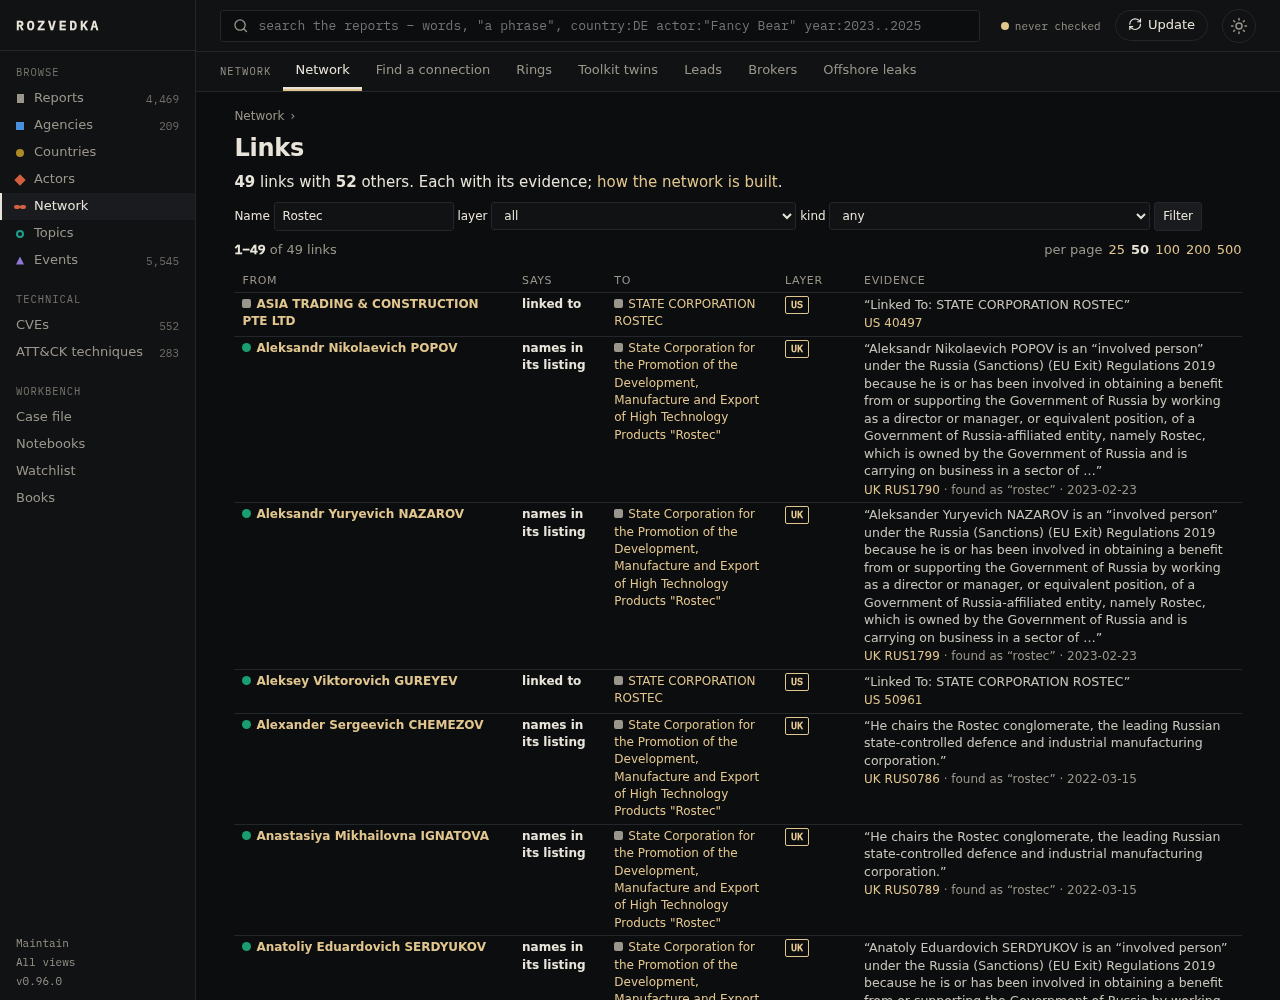
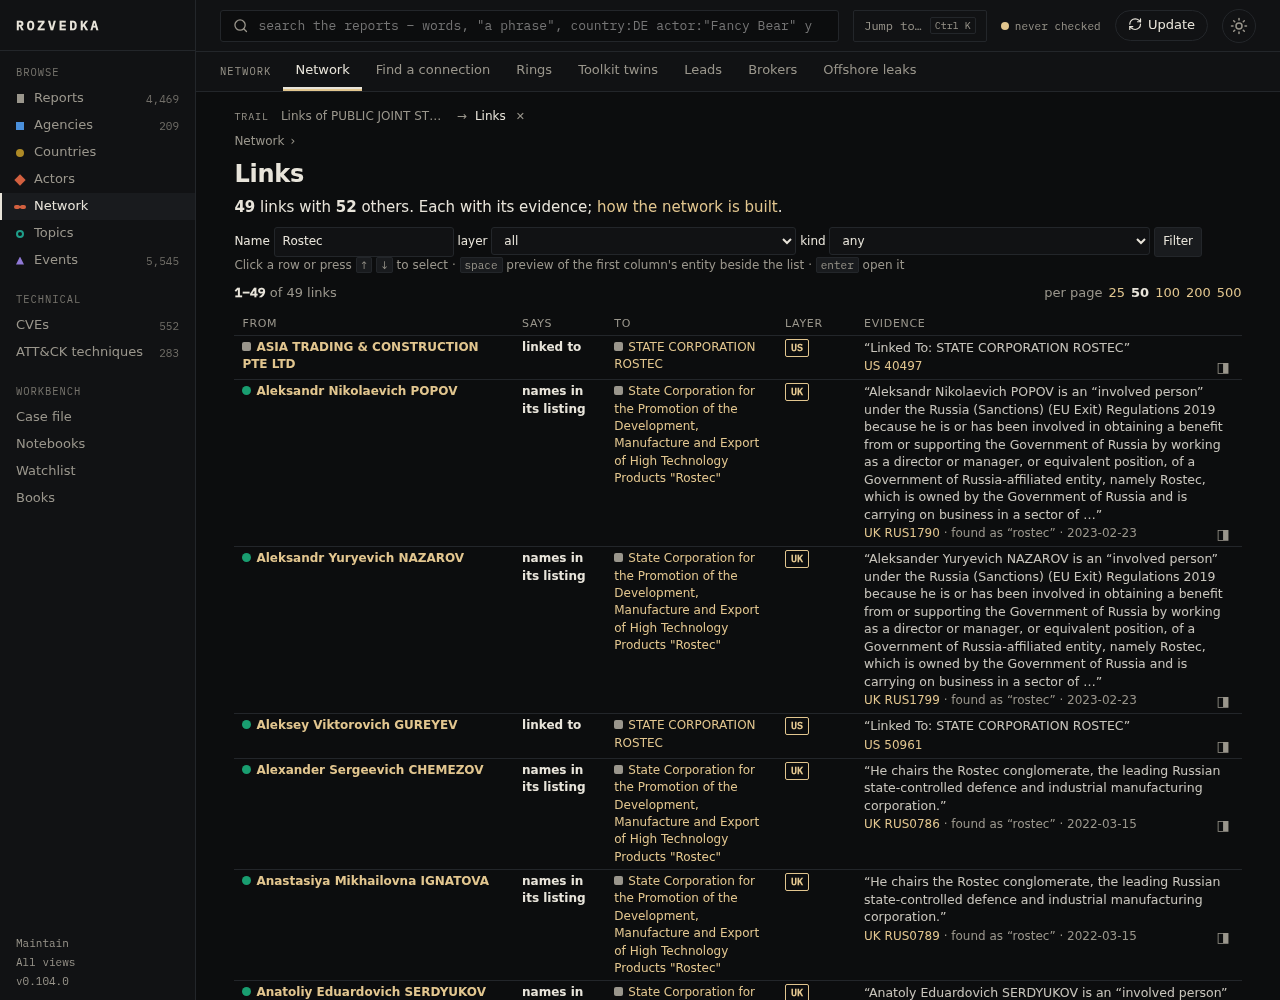
feat: preview pane on the network's Links list (0.104.0)
A selected link shows the first column's entity beside the list: its links in
numbers, by source and by relation. An actor's entity gets the actor's preview.
The selected row is highlighted across header cells too.

diff --git a/rozvedka/templates/entity_preview.html b/rozvedka/templates/entity_preview.html
@@ -1,0 +1,21 @@
+{# one network entity in the Links list's preview pane (static/preview.js) – a piece of a page, not a page #}
+{% set d = e.data %}
+<p class="pv-kicker"><span>Preview · entity</span><button type="button" class="pv-close" title="Close the preview (Esc)">esc ✕</button></p>
+<h2 class="pv-title"><a href="/entity/{{ e.id|urlencode }}">{{ e.label }}</a></h2>
+<p class="pv-by"><span class="ent"><i class="kdot kind-{{ e.kind }}"></i>{{ e.kind_name }}</span>
+  <span class="muted">· {% if d.members %}on {{ d.members|map(attribute='list')|unique|join(' · ') }}{% elif d.list %}on the {{ lists[d.list].name if d.list in lists else d.list }}{% elif e.origin == 'icij' %}ICIJ Offshore Leaks – leaked records, not official{% elif e.origin == 'gleif' %}GLEIF register{% elif e.origin == 'attack' %}MITRE ATT&amp;CK{% elif e.origin == 'ids' %}a detail shared by list entries{% else %}not an actor the reports are searched for{% endif %}</span></p>
+<p class="rp-actions"><a class="rp-btn rp-primary" href="/entity/{{ e.id|urlencode }}">Open entity</a>
+  <a class="rp-btn" href="{{ p.link }}">Links</a>
+  <a class="rp-btn" href="/graph/rings?e={{ e.id|urlencode }}">Rings</a>
+  <a class="rp-btn" href="/graph/path?a={{ e.id|urlencode }}">Find a connection</a></p>
+<table class="kv small pv-facts">
+  <tr><th>Links</th><td><a href="{{ p.link }}">{{ p.total|num }}</a> with {{ p.others|num }} other{{ 's' if p.others != 1 }}</td></tr>
+  {% for g, name in (('official', 'Official'), ('reference', 'Reference'), ('leaks', 'Leaked'), ('reports', 'Reports')) %}{% set ls = p.layers|selectattr('group', 'equalto', g)|list %}{% if ls %}
+  <tr><th>{{ name }}</th><td>{% for l in ls %}<a href="{{ l.link }}" title="{{ l.name }}">{{ l.n|num }} {{ l.name.split(' (')[0] }}</a>{{ ' · ' if not loop.last }}{% endfor %}</td></tr>{% endif %}{% endfor %}
+</table>
+{% for l in groups %}<h3 class="pv-h">{{ l.name.split(' (')[0] }} <span class="muted">· {% if l.group == 'official' %}official{% elif l.group == 'leaks' %}leaked records, not official{% elif l.layer in ('wikipedia', 'wikitext') %}not official{% else %}reference{% endif %}</span></h3>
+  <ul class="pv-list pv-rels">{% for r in l.rels %}<li><span class="pv-says">{{ r.says }}</span>
+    <span class="pv-who">{% for x in r.rows[:per_rel] %}<a href="{{ x.other_href }}">{{ x.other_label|truncate(30) }}</a>{{ ', ' if not loop.last }}{% endfor %}{% if r.n > per_rel %} <span class="muted">+{{ (r.n - per_rel)|num }}</span>{% endif %}</span>
+    <a class="pv-n" href="{{ l.link }}" title="All {{ l.name }} links of {{ e.label }}">{{ r.n|num }}</a></li>{% endfor %}</ul>
+{% endfor %}
+<p class="pv-keys">↑ ↓ or j k move · space preview · enter open · esc close</p>

diff --git a/rozvedka/templates/graph_ties.html b/rozvedka/templates/graph_ties.html
@@ -15,14 +15,18 @@
   kind <select name="kind"><option value="">any</option>{% for k, n in kinds.items() %}<option value="{{ k }}" {{ 'selected' if f.kind == k }}>{{ n }}</option>{% endfor %}</select>
   <button>Filter</button>{% if f.entity %} <a href="/graph/ties">all entities</a>{% endif %}
 </form>
+{% if rows %}<p class="pv-hint muted small">Click a row or press <kbd>↑</kbd> <kbd>↓</kbd> to select · <kbd>space</kbd> preview of the first column's entity beside the list · <kbd>enter</kbd> open it</p>{% endif %}
 {{ pager(pg, "links") }}
 <table class="rp-topics small ties">
   <thead><tr><th>{{ 'Linked' if focus else 'From' }}</th><th>Says</th><th>{{ '' if focus else 'To' }}</th><th>Layer</th><th>Evidence</th></tr></thead>
-  {% for r in rows %}<tr>
+  <tbody>{% for r in rows %}{% set first = r.other if focus else r.a %}
+  <tr data-id="{{ r.id }}" data-pv="/graph/preview?e={{ first|urlencode }}" data-open="{{ r.other_href if focus else r.a_href }}">
     {% if focus %}<th>{{ ent(r.other_label, r.other_kind, r.other_href) }}</th><td>{{ focus.label }} <b>{{ r.says }}</b></td><td></td>
     {% else %}<th>{{ ent(r.a_label, r.a_kind, r.a_href) }}</th><td><b>{{ r.rel }}</b></td><td>{{ ent(r.b_label, r.b_kind, r.b_href) }}</td>{% endif %}
-    <td>{{ lay(r.layer, r.layer_group, r.layer_name) }}</td><td>{{ evidence(r) }}</td></tr>
-  {% else %}<tr><td class="muted" colspan="5">No link matches this filter.</td></tr>{% endfor %}
+    <td>{{ lay(r.layer, r.layer_group, r.layer_name) }}</td><td>{{ evidence(r) }} <button type="button" class="pv-btn a-pv" title="Preview beside the list (space)" aria-label="Preview" aria-pressed="false">◨</button></td></tr>
+  {% else %}<tr><td class="muted" colspan="5">No link matches this filter.</td></tr>{% endfor %}</tbody>
 </table>
 {{ pager(pg, "links") }}
+<aside class="pv" id="pv" data-what="entity" aria-label="Preview of the selected entity" aria-live="polite" hidden></aside>
+<script src="{{ asset('preview.js') }}" defer></script>
 {% endblock %}

diff --git a/rozvedka/static/style.css b/rozvedka/static/style.css
@@ -1703,8 +1703,8 @@ span.conn-n { color: var(--muted); }
 
 /* the Reports list's preview pane (static/preview.js): beside the list on a wide screen, over it on a narrow one */
 .docs tbody tr[data-doc] { cursor: default; }
-tbody tr[data-pv].sel > td { background: var(--chip); }
-tbody tr[data-pv].sel > td:first-child { box-shadow: inset 2px 0 0 var(--accent); }
+tbody tr[data-pv].sel > td, tbody tr[data-pv].sel > th { background: var(--chip); }
+tbody tr[data-pv].sel > :first-child { box-shadow: inset 2px 0 0 var(--accent); }
 .pv-btn { border: 0; background: none; color: var(--muted); padding: 2px 4px; font-size: 14px; line-height: 1; cursor: pointer; }
 .pv-btn:hover, .pv-btn[aria-pressed="true"] { color: var(--accent); }
 .pv-hint { margin: 0 0 6px; }
@@ -1735,6 +1735,9 @@ tbody tr[data-pv].sel > td:first-child { box-shadow: inset 2px 0 0 var(--accent)
 .pv-from { margin: 4px 0 0 12px; }
 .pv-chips .topic-chip b { font-weight: 500; margin-left: 4px; }
 .a-pv { float: right; }
+.pv-rels li { align-items: baseline; }
+.pv-says { flex: none; width: 34%; color: var(--muted); }
+.pv-who { min-width: 0; }
 @media (min-width: 1200px) { body.pv-open .actors th:nth-child(n+4), body.pv-open .actors td:nth-child(n+4) { display: none; } }
 .pv-keys { margin: 16px 0 0; padding-top: 10px; border-top: 1px solid var(--line); font: 11px var(--mono); color: var(--muted); }
 @media (min-width: 1200px) { /* beside the pane the list keeps year, publisher and title; the pane says the rest */

diff --git a/rozvedka/static/preview.js b/rozvedka/static/preview.js
@@ -1,4 +1,4 @@
-// Lists with a preview pane (Reports, Actors): a row can be selected (click, ↑ ↓ or j k) and previewed in a pane
+// Lists with a preview pane (Reports, Actors, Links): a row can be selected (click, ↑ ↓ or j k) and previewed in a pane
 // beside the list (space, or its button) without leaving the list; enter opens its page. A row says where its preview
 // (data-pv) and its page (data-open) are; a report's preview gets the list's own search, so it shows the passage
 // that made the report match.
@@ -19,7 +19,7 @@
     const put = (html) => { if (rows[sel] && rows[sel].dataset.pv === id) { pane.innerHTML = html; pane.scrollTop = 0; } };
     if (cache.has(id)) return put(cache.get(id));
     pane.innerHTML = kicker + '<p class="muted small">Loading…</p>';
-    fetch(`${id}?${qs}`).then((r) => r.ok ? r.text() : Promise.reject(r.status))
+    fetch(String(qs) ? id + (id.includes("?") ? "&" : "?") + qs : id).then((r) => r.ok ? r.text() : Promise.reject(r.status))
       .then((html) => { cache.set(id, html); put(html); })
       .catch(() => put(kicker + '<p class="muted small">The preview could not be loaded.</p>'));
   }

diff --git a/tests/test_ties.py b/tests/test_ties.py
@@ -218,3 +218,20 @@ def test_wanted_notices(library):
         assert "Wanted" in page and "fbi.gov/wanted/cyber/jd" in page and "allegation, not a conviction" in page
         assert "several people at once" in client.get("/entity/case:FBI:c1").text
         assert "officer of Hezbollah" in client.get("/graph/ties?layer=wanted").text
+
+
+def test_preview_pane_on_the_links_list(library):
+    from rozvedka.app import app
+    with TestClient(app) as client:
+        p = ties.profile("S0002")
+        t = client.get("/graph/preview?e=S0002").text
+        assert "<html" not in t and "Preview · entity" in t and "Mimikatz" in t and 'href="/entity/S0002"' in t   # a piece of a page
+        assert f'<a href="/graph/ties?entity=S0002">{p["total"]}</a> with {p["others"]} other' in t              # the number opens its list
+        assert "MITRE ATT&amp;CK" in t and 'class="pv-says"' in t
+        r = client.get("/graph/preview?e=Q2", follow_redirects=False)                # an actor gets the actor's preview
+        assert r.status_code == 307 and r.headers["location"] == "/actors/Q2/preview"
+        assert client.get("/graph/preview?e=NOPE").status_code == 404 and client.get("/graph/preview").status_code == 404
+        lst = client.get("/graph/ties?entity=Q2").text
+        assert 'id="pv" data-what="entity"' in lst and "preview.js" in lst and 'data-pv="/graph/preview?e=' in lst
+        assert lst.count("data-pv=") == lst.count('class="pv-btn a-pv"') == 5        # one per link
+        assert "data-pv=" not in client.get("/graph/ties?q=zzzzzz").text

diff --git a/rozvedka/routes/graph.py b/rozvedka/routes/graph.py
@@ -31,6 +31,23 @@ def ties_page(request: Request, entity: str = "", layer: str = "", group: str = 
                                                              "kinds": ties.KINDS})
 
 
+PREVIEW_PER_REL = 4      # linked names shown per relation in an entity's preview
+
+
+@router.get("/graph/preview")
+def entity_preview(request: Request, e: str = ""):
+    """The entity as the Links list shows it beside a selected row: its links in numbers and by relation. An entity
+    that is an actor of the reports gets the actor's preview."""
+    ent = ties.entity(e)
+    if not ent:
+        raise HTTPException(404, "no such entity in the network")
+    if ent["actor"]:
+        return RedirectResponse("/actors/" + quote(ent["actor"], safe="") + "/preview", status_code=307)
+    return tpl.TemplateResponse(request, "entity_preview.html", {"e": ent, "groups": ties.neighbours(e), "p": ties.profile(e),
+                                                                 "per_rel": PREVIEW_PER_REL,
+                                                                 "lists": {**sanctions.LISTS, **wanted.SOURCES}})
+
+
 @router.get("/entity/{id_:path}")
 def entity_page(request: Request, id_: str):
     e = ties.entity(id_)

diff --git a/tools/screenshots.py b/tools/screenshots.py
@@ -95,6 +95,7 @@ SHOTS = {
     "network": ("/network", 1100, [("sleep", 6)], None),
     "graph": ("/graph", 1250, [], None),                                # the network of stated links: layers, most linked
     "graph-actor": ("/actors/Q41053", 1100, [("sleep", 2)], "#network"),  # Hezbollah: what the sanctions lists tie to it
+    "links-preview": ("/graph/ties?entity=EU:EU.11824.28&layer=uk", 760, [("eval", "['j', ' '].forEach((k) => document.dispatchEvent(new KeyboardEvent('keydown', {key: k}))); scrollTo(0, 0); 1"), ("sleep", 5)], None),
     "graph-ties": ("/graph/ties?q=Rostec", 1000, [], None),             # links found by name, each with its evidence
     "graph-wikitext": ("/graph/ties?entity=Q4119382&layer=wikitext", 1100, [], None),   # links from Wikipedia article sentences
     "entity-wanted": ("/entity/US:26192", 1300, [], None),            # a GRU officer: OFAC entry and FBI notice merged, the links it states

diff --git a/rozvedka/__init__.py b/rozvedka/__init__.py
@@ -5,7 +5,7 @@ from pathlib import Path
 
 # Single source of the release version (Semantic Versioning, https://semver.org).
 # Do not edit by hand: run `python3 tools/bump_version.py patch|minor|major` (see CHANGELOG.md, "Versioning").
-__version__ = "0.103.0"
+__version__ = "0.104.0"
 
 
 @lru_cache(maxsize=1)

diff --git a/docs/ROADMAP.md b/docs/ROADMAP.md
@@ -270,7 +270,7 @@ Drafts of three screens are in `docs/design/` (an actor, the Reports list, a cou
 | I1 | Menu by the things the library holds (reports, agencies, countries, actors, network, topics, events), new monochrome look in both themes | **done 0.95.0** |
 | I2 | One page shape for every thing: identity, six key numbers, then its views as tabs (overview, reports, relations, timeline, map) | **actors and reports done 0.96.0** (`static/tabs.js`); **countries and topics done 0.97.0**; **agencies done 0.98.0** (`/agency/<id>`; the credibility profile of a think tank stays on `/publisher/<id>`) |
 | I3 | One "Connected to" block: every link by kind, with count and source – actor and entity pages merged | **on the actor's Overview 0.96.0**; **entity pages done 0.99.0** – same head, key numbers, tabs and "Connected to" as an actor (an entity that is an actor opens the actor's page) |
-| I4 | Preview pane: a selected row shows the report with its passages and pages without leaving the list; keyboard moves | **done 0.100.0** on the Reports list (`static/preview.js`, `/report/<id>/preview`); **Actors list done 0.103.0** (`/actors/<key>/preview`; rows carry `data-pv` and `data-open`, so the links list can follow) |
+| I4 | Preview pane: a selected row shows the report with its passages and pages without leaving the list; keyboard moves | **done 0.100.0** on the Reports list (`static/preview.js`, `/report/<id>/preview`); **Actors list done 0.103.0** (`/actors/<key>/preview`; rows carry `data-pv` and `data-open`, ); **Links list done 0.104.0** (`/graph/preview?e=<id>`) |
 | I5 | Trail of hops and a scope (publisher kind, years, countries) kept between pages; jump-to-anything box | **jump box and trail done 0.101.0** (`rozvedka/jump.py`, `static/jump.js`); **kept scope done 0.102.0** (`static/scope.js`) – on the pages that already filter by kind, years or country; actor, country and topic pages have no such filters and say so |
 | I6 | Home page in the new look (the console banner goes) | **done 0.101.1** |
 

diff --git a/CHANGELOG.md b/CHANGELOG.md
@@ -27,6 +27,18 @@ From 0.9.1 on, the significance of a change decides which part of `MAJOR.MINOR.P
 
 ## [Unreleased]
 
+## [0.104.0] – 2026-11-13
+
+### Added
+- **Preview pane on the network's Links list** – select a row (click, ↑ ↓ or j k) and press space: a pane beside the
+  list shows the entity in the first column – its kind and the lists it is on, how many links it has and with how many
+  others, the counts by source, and its links by relation with the first names of each. Every number opens its list;
+  enter opens the entity. An entity that is an actor of the reports shows the actor's preview.
+
+### Fixed
+- The selected row of a list with a preview pane is highlighted across the whole row, also where its first cell is a
+  header cell.
+
 ## [0.103.0] – 2026-11-13
 
 ### Added
@@ -2204,7 +2216,8 @@ From 0.9.1 on, the significance of a change decides which part of `MAJOR.MINOR.P
 - Crawler, polite downloader (robots.txt, per-host delay, PDF check, de-duplication) and FastAPI web portal.
 - systemd user units for the portal and a weekly update timer.
 
-[Unreleased]: https://github.com/iiogurt/Rozvedka/compare/v0.103.0...HEAD
+[Unreleased]: https://github.com/iiogurt/Rozvedka/compare/v0.104.0...HEAD
+[0.104.0]: https://github.com/iiogurt/Rozvedka/compare/v0.103.0...v0.104.0
 [0.103.0]: https://github.com/iiogurt/Rozvedka/compare/v0.102.0...v0.103.0
 [0.102.0]: https://github.com/iiogurt/Rozvedka/compare/v0.101.1...v0.102.0
 [0.101.1]: https://github.com/iiogurt/Rozvedka/compare/v0.101.0...v0.101.1

diff --git a/README.md b/README.md
@@ -649,6 +649,11 @@ as a name (“Rostec”, not “prosperity”), no names made only of generic wo
 <img src="docs/images/graph-actor.png" alt="An actor's Network section: entries the US Treasury links to Hezbollah, UK listings whose reasons name it, with the quoted sentences" width="900">
 
 - **Links** (`/graph/ties`): search any name across all layers, filter by layer and kind; every row with its evidence.
+  Select a row and press <kbd>space</kbd> for a **preview beside the list** of the entity in the first column: how many
+  links it has and with how many others, the counts by source, and its links by relation with the first names of each –
+  an entity that is an actor of the reports shows the actor's preview.
+
+  <img src="docs/images/links-preview.png" alt="The links of a listed company with one linked entity selected and its preview beside the list: its links by source and by relation" width="900">
 - **Entity pages** (`/entity/…`) for what is not an actor: a sanctions entry with its programme and other names, a piece
   of malware, a campaign, a Wikidata person. The page has the shape of an actor's: six key numbers (links, the different
   things they lead to, how many of them official lists, reference data and leaked records state, list entries), then
